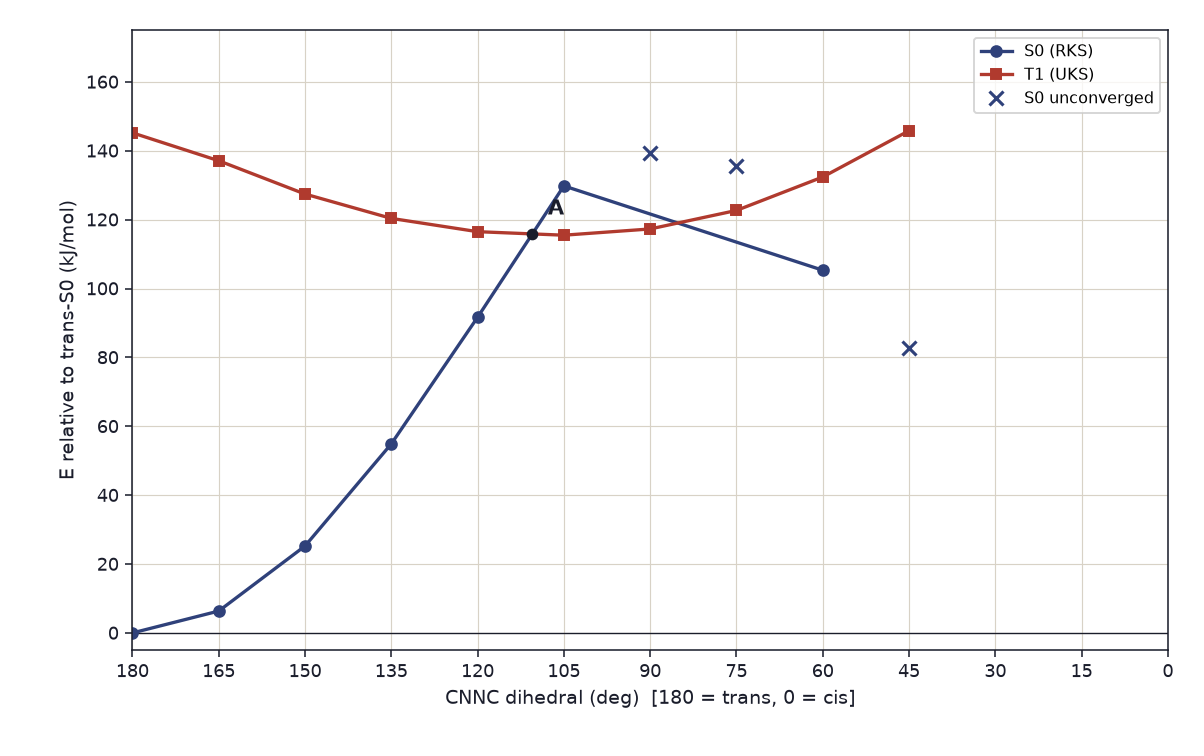
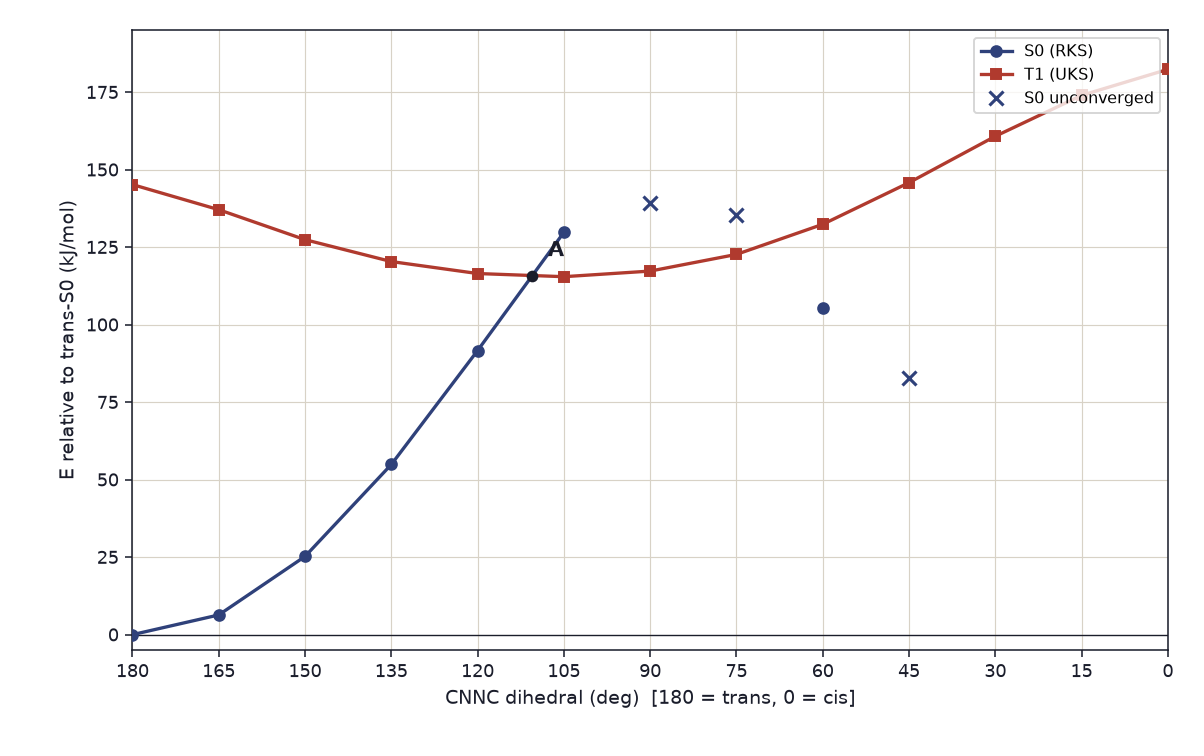
Stop bridging unconverged M4 points in figures and tables
Split plotted S0 and gap lines at missing or unconverged grid points so
105° no longer connects to 60°. Move M1 76.5° out of Table 1's
both-converged column. Import the three cis-side T1 energies so the
thirteen-point T1 count is derived from the committed files, and quote
the M4 CSV so every row has eight fields.

diff --git a/research/hillel-triplet/make_figures.py b/research/hillel-triplet/make_figures.py
@@ -41,15 +41,52 @@ def m4_series():
     angles, s0, t1, s0_ok, t1_ok, gaps = [], [], [], [], [], []
     for p in points:
         angles.append(p["cnnc_deg"])
-        s0.append(p["s0_rel_kjmol"])
-        t1.append(p["t1_rel_kjmol"])
-        s0_ok.append(p["s0_converged"])
-        t1_ok.append(p["t1_converged"])
+        s0.append(p.get("s0_rel_kjmol"))
+        t1.append(p.get("t1_rel_kjmol"))
+        s0_run = p.get("s0_not_run") is not True and p.get("s0_rel_kjmol") is not None
+        s0_ok.append(bool(p.get("s0_converged")) and s0_run)
+        t1_ok.append(bool(p.get("t1_converged")) and p.get("t1_rel_kjmol") is not None)
         if "gap_kjmol" in p:
             gaps.append(p["gap_kjmol"])
-        else:
+        elif s0_run and p.get("t1_rel_kjmol") is not None:
             gaps.append(p["s0_rel_kjmol"] - p["t1_rel_kjmol"])
+        else:
+            gaps.append(None)
     return angles, s0, t1, s0_ok, t1_ok, gaps
+
+
+def segments(xs, ys, ok):
+    """Split a series wherever a point is missing or not eligible to connect."""
+    segs = []
+    cur_x, cur_y = [], []
+    for x, y, flag in zip(xs, ys, ok):
+        if flag and y is not None:
+            cur_x.append(x)
+            cur_y.append(y)
+        else:
+            if cur_x:
+                segs.append((cur_x, cur_y))
+                cur_x, cur_y = [], []
+    if cur_x:
+        segs.append((cur_x, cur_y))
+    return segs
+
+
+def plot_segments(ax, xs, ys, ok, *, color, linewidth, marker=None, markersize=None, zorder=3, label=None):
+    first = True
+    for seg_x, seg_y in segments(xs, ys, ok):
+        ax.plot(
+            seg_x,
+            seg_y,
+            "-",
+            color=color,
+            linewidth=linewidth,
+            marker=marker,
+            markersize=markersize,
+            zorder=zorder,
+            label=label if first else None,
+        )
+        first = False
 
 
 def style_ax(ax):
@@ -92,16 +129,10 @@ def fig1():
     style_ax(ax)
     ax.axhline(0, color=INK, linewidth=1.0)
 
-    both_x, both_y, un_x, un_y = [], [], [], []
-    for a, g, ok0, ok1 in zip(angles, gaps, s0_ok, t1_ok):
-        if ok0 and ok1:
-            both_x.append(a)
-            both_y.append(g)
-        else:
-            un_x.append(a)
-            un_y.append(g)
-    ax.plot(both_x, both_y, "-", color=M4, linewidth=1.8, zorder=3)
-    ax.plot(both_x, both_y, "o", color=M4, markersize=6, zorder=4)
+    both_ok = [ok0 and ok1 and g is not None for ok0, ok1, g in zip(s0_ok, t1_ok, gaps)]
+    plot_segments(ax, angles, gaps, both_ok, color=M4, linewidth=1.8, marker="o", markersize=6, zorder=3)
+    un_x = [a for a, g, ok0, ok1 in zip(angles, gaps, s0_ok, t1_ok) if g is not None and not (ok0 and ok1)]
+    un_y = [g for g, ok0, ok1 in zip(gaps, s0_ok, t1_ok) if g is not None and not (ok0 and ok1)]
     ax.plot(un_x, un_y, "x", color=M4, markersize=7, markeredgewidth=1.6, zorder=4)
     ax.plot(
         [120, 105],
@@ -136,15 +167,15 @@ def _m4_profiles(ax, letter=True):
     angles, s0, t1, s0_ok, t1_ok, gaps = m4_series()
     style_ax(ax)
     ax.axhline(0, color=INK, linewidth=0.7)
-    s0c_x = [a for a, ok in zip(angles, s0_ok) if ok]
-    s0c_y = [e for e, ok in zip(s0, s0_ok) if ok]
-    s0u_x = [a for a, ok in zip(angles, s0_ok) if not ok]
-    s0u_y = [e for e, ok in zip(s0, s0_ok) if not ok]
-    ax.plot(s0c_x, s0c_y, "-o", color=S0, linewidth=1.7, markersize=5.5, label="S0 (RKS)")
-    ax.plot(angles, t1, "-s", color=T1, linewidth=1.7, markersize=5.0, label="T1 (UKS)")
+    plot_segments(ax, angles, s0, s0_ok, color=S0, linewidth=1.7, marker="o", markersize=5.5, label="S0 (RKS)")
+    plot_segments(ax, angles, t1, t1_ok, color=T1, linewidth=1.7, marker="s", markersize=5.0, label="T1 (UKS)")
+    s0u_x = [a for a, e, ok in zip(angles, s0, s0_ok) if e is not None and not ok]
+    s0u_y = [e for e, ok in zip(s0, s0_ok) if e is not None and not ok]
     ax.plot(s0u_x, s0u_y, "x", color=S0, markersize=7, markeredgewidth=1.6, label="S0 unconverged")
     crossing = linear_zero(120, gaps[angles.index(120)], 105, gaps[angles.index(105)])
-    y_cross = 116.51 + (115.49 - 116.51) * (crossing - 120) / (105 - 120)
+    t1_120 = t1[angles.index(120)]
+    t1_105 = t1[angles.index(105)]
+    y_cross = t1_120 + (t1_105 - t1_120) * (crossing - 120) / (105 - 120)
     if letter:
         ax.plot(crossing, y_cross, "o", color=INK, markersize=5, zorder=6)
         ax.annotate(
@@ -158,7 +189,7 @@ def _m4_profiles(ax, letter=True):
         )
     ax.set_xlabel("CNNC dihedral (deg)  [180 = trans, 0 = cis]", color=INK)
     ax.set_ylabel("E relative to trans-S0 (kJ/mol)", color=INK)
-    ax.set_ylim(-5, 175)
+    ax.set_ylim(-5, 195)
     ax.legend(loc="upper right", fontsize=8, frameon=True, facecolor="white")
     return crossing
 
@@ -178,11 +209,10 @@ def fig3():
     _m4_profiles(ax1)
     style_ax(ax2)
     ax2.axhline(0, color=INK, linewidth=1.0)
-    both_x = [a for a, ok0, ok1 in zip(angles, s0_ok, t1_ok) if ok0 and ok1]
-    both_y = [g for g, ok0, ok1 in zip(gaps, s0_ok, t1_ok) if ok0 and ok1]
-    un_x = [a for a, ok0, ok1 in zip(angles, s0_ok, t1_ok) if not (ok0 and ok1)]
-    un_y = [g for g, ok0, ok1 in zip(gaps, s0_ok, t1_ok) if not (ok0 and ok1)]
-    ax2.plot(both_x, both_y, "-o", color=M4, linewidth=1.7, markersize=5.5, label="M4 gap")
+    both_ok = [ok0 and ok1 and g is not None for ok0, ok1, g in zip(s0_ok, t1_ok, gaps)]
+    plot_segments(ax2, angles, gaps, both_ok, color=M4, linewidth=1.7, marker="o", markersize=5.5, label="M4 gap")
+    un_x = [a for a, g, ok0, ok1 in zip(angles, gaps, s0_ok, t1_ok) if g is not None and not (ok0 and ok1)]
+    un_y = [g for g, ok0, ok1 in zip(gaps, s0_ok, t1_ok) if g is not None and not (ok0 and ok1)]
     ax2.plot(un_x, un_y, "x", color=M4, markersize=7, markeredgewidth=1.6, label="M4, S0 unconverged")
     ax2.plot(
         [120, 105],

diff --git a/posts/2026-08-22-does-push-pull-abolish-the-s0-t1-crossing.md b/posts/2026-08-22-does-push-pull-abolish-the-s0-t1-crossing.md
@@ -134,8 +134,8 @@ changed after T1 was seen. On 2026-08-22, 60° reconverged
 
 The private-lab journal records that M3 T1 at 45° failed. That slip is left
 in the record rather than repaired after the fact. M4 T1 converged at all
-thirteen grid angles; relative energies for 30°, 15°, and 0° are not in the
-committed projection.
+[m4_t1_converged_count]{.metric} grid angles. S0 at 30°, 15°, and 0° was
+not run.
 
 Raw Psi4 logs stay in the private Molecules lab. They are large and carry
 host paths, and they are treated as scratch in the same way as the BMN
@@ -154,15 +154,16 @@ Figure 3 puts the M4 profiles beside the M4 and M2 gaps.
 | Molecule | Trans-side crossing (deg) | Other both-converged zeros (deg) | $\Delta$ at 120° (kJ/mol) | $\Delta$ at 105° (kJ/mol) |
 | --- | ---: | ---: | ---: | ---: |
 | M0 azobenzene | [m0_crossing_upper_deg]{.metric} | [m0_crossing_lower_deg]{.metric}; also [m0_cis_zero_a_deg]{.metric}, [m0_cis_zero_b_deg]{.metric} | — | — |
-| M1 AzPy | [m1_crossing_upper_deg]{.metric} | [m1_crossing_lower_deg]{.metric} | — | — |
+| M1 AzPy | [m1_crossing_upper_deg]{.metric} | — | — | — |
 | M2 AzPyH+ | none ([m2_crossing_count]{.metric}) | — | [m2_gap_120]{.metric} | [m2_gap_105]{.metric} |
 | M3 2-AzPy | [m3_crossing_upper_deg]{.metric} | [m3_crossing_lower_deg]{.metric} | — | — |
 | M4 NMe2/NO2 | [m4_crossing_deg]{.metric} | — | [m4_gap_120]{.metric} | [m4_gap_105]{.metric} |
 
 **Table 1.** Both-converged S0/T1 zeros and the 120°/105° gaps on the
-B3LYP-D3(BJ)/cc-pVDZ CNNC grid. A dash is a quantity that is not in the
-committed projection. M1's [m1_crossing_lower_deg]{.metric}° zero uses a
-45° bracket: S0 at 90° and 75° did not converge. M3 T1 at 45° failed.
+B3LYP-D3(BJ)/cc-pVDZ CNNC grid. A dash is a quantity that is not a
+both-converged neighbour zero in the committed projection. M1 has a
+loose interpolant at [m1_crossing_lower_deg]{.metric}° that uses a 45°
+bracket: S0 at 90° and 75° did not converge. M3 T1 at 45° failed.
 M2 S0 did not converge at 180°, 90°, 75°, 60°, 45°, 30°, 15°, or 0°.
 
 <figure>
@@ -181,7 +182,7 @@ The M4 claim crossing is the linear zero between 120°
 [m4_s0_rel_105]{.metric} kJ/mol, T1 [m4_t1_rel_105]{.metric} kJ/mol). That
 zero is [m4_crossing_deg]{.metric}°. M2 at the same two angles is
 [m2_gap_120]{.metric} and [m2_gap_105]{.metric} kJ/mol; both are negative.
-M4 T1 converged at [m4_t1_converged_count]{.metric} of the plotted points.
+M4 T1 converged at [m4_t1_converged_count]{.metric} grid angles.
 M4 S0 converged from 180° through 105° and again at 60°; it did not
 converge at 90°, 75°, or 45° ([m4_s0_unconverged_count]{.metric} unconverged
 S0 points in the projection). [m4_s0_not_run_count]{.metric} further S0
